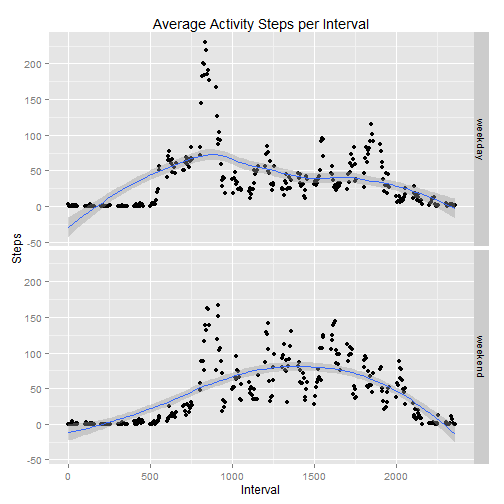
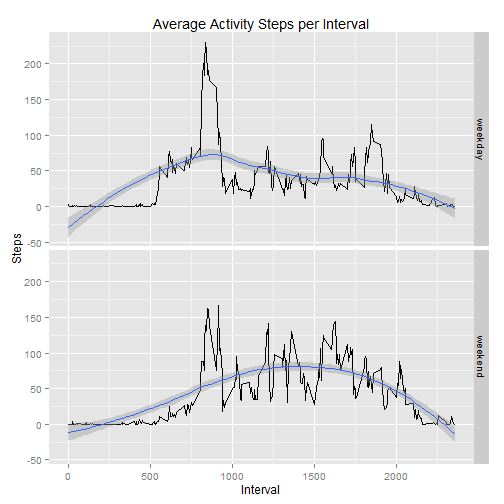
add correct figures, html and markdown

diff --git a/PA1_template.html b/PA1_template.html
@@ -206,9 +206,24 @@ hr {
 <p>I used read.csv() with default values to load the raw activity data.</p>
 
 <pre><code class="r">library(knitr)
+library(ggplot2)
 opts_chunk$set(echo = TRUE)
 library(dplyr)
-raw_data &lt;- read.csv(&quot;activity.csv&quot;)
+</code></pre>
+
+<pre><code>## 
+## Attaching package: &#39;dplyr&#39;
+## 
+## The following object is masked from &#39;package:stats&#39;:
+## 
+##     filter
+## 
+## The following objects are masked from &#39;package:base&#39;:
+## 
+##     intersect, setdiff, setequal, union
+</code></pre>
+
+<pre><code class="r">raw_data &lt;- read.csv(&quot;activity.csv&quot;)
 </code></pre>
 
 <h2>What is the mean total number of steps taken per day?</h2>
@@ -337,16 +352,13 @@ imputted_data$day_type &lt;- factor(imputted_data$week_type,labels = c(&quot;wee
       ylab = &quot;Steps&quot;,
       main = &quot;Average Activity Steps per Interval&quot;,
       facets = Group.2~.,
-       geom = c(&quot;point&quot;,&quot;smooth&quot;)
+       geom = c(&quot;line&quot;,&quot;smooth&quot;)
       )
 </code></pre>
 
-<pre><code>## geom_smooth: method=&quot;auto&quot; and size of largest group is &lt;1000, so using loess. Use &#39;method = x&#39; to change the smoothing method.
-## geom_smooth: method=&quot;auto&quot; and size of largest group is &lt;1000, so using loess. Use &#39;method = x&#39; to change the smoothing method.
-</code></pre>
[1 lines of base64/hex data omitted]
 
[1 lines of base64/hex data omitted]
-It seems like the is less volatile over the weekends and the 
+<p>It seems like the is less volatile over the weekends and the 
 mean seems slightly more centered towards the afternoon on the weekends. This
 makes sense as people go out to the beach and other leisurely activities.</p>
 

diff --git a/PA1_template.md b/PA1_template.md
@@ -11,8 +11,25 @@ I used read.csv() with default values to load the raw activity data.
 
 ```r
 library(knitr)
+library(ggplot2)
 opts_chunk$set(echo = TRUE)
 library(dplyr)
+```
+
+```
+## 
+## Attaching package: 'dplyr'
+## 
+## The following object is masked from 'package:stats':
+## 
+##     filter
+## 
+## The following objects are masked from 'package:base':
+## 
+##     intersect, setdiff, setequal, union
+```
+
+```r
 raw_data <- read.csv("activity.csv")
 ```
 
@@ -152,16 +169,12 @@ qplot(Group.1,x,
       ylab = "Steps",
       main = "Average Activity Steps per Interval",
       facets = Group.2~.,
-       geom = c("point","smooth")
+       geom = c("line","smooth")
       )
 ```
 
-```
-## geom_smooth: method="auto" and size of largest group is <1000, so using loess. Use 'method = x' to change the smoothing method.
-## geom_smooth: method="auto" and size of largest group is <1000, so using loess. Use 'method = x' to change the smoothing method.
-```
-
 ![plot of chunk unnamed-chunk-11](figure/unnamed-chunk-11-1.png) 
+
 It seems like the is less volatile over the weekends and the 
 mean seems slightly more centered towards the afternoon on the weekends. This
 makes sense as people go out to the beach and other leisurely activities.
